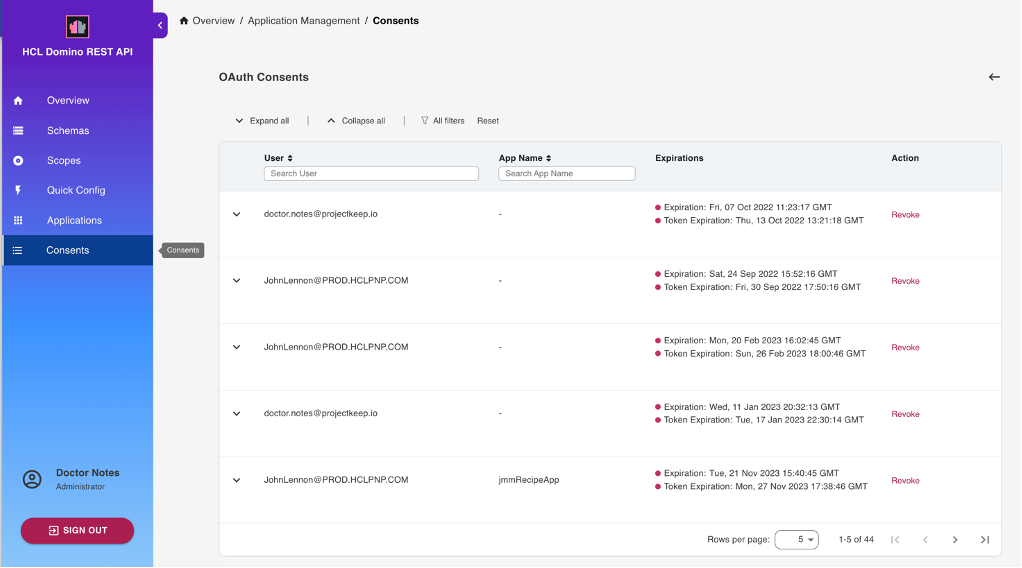
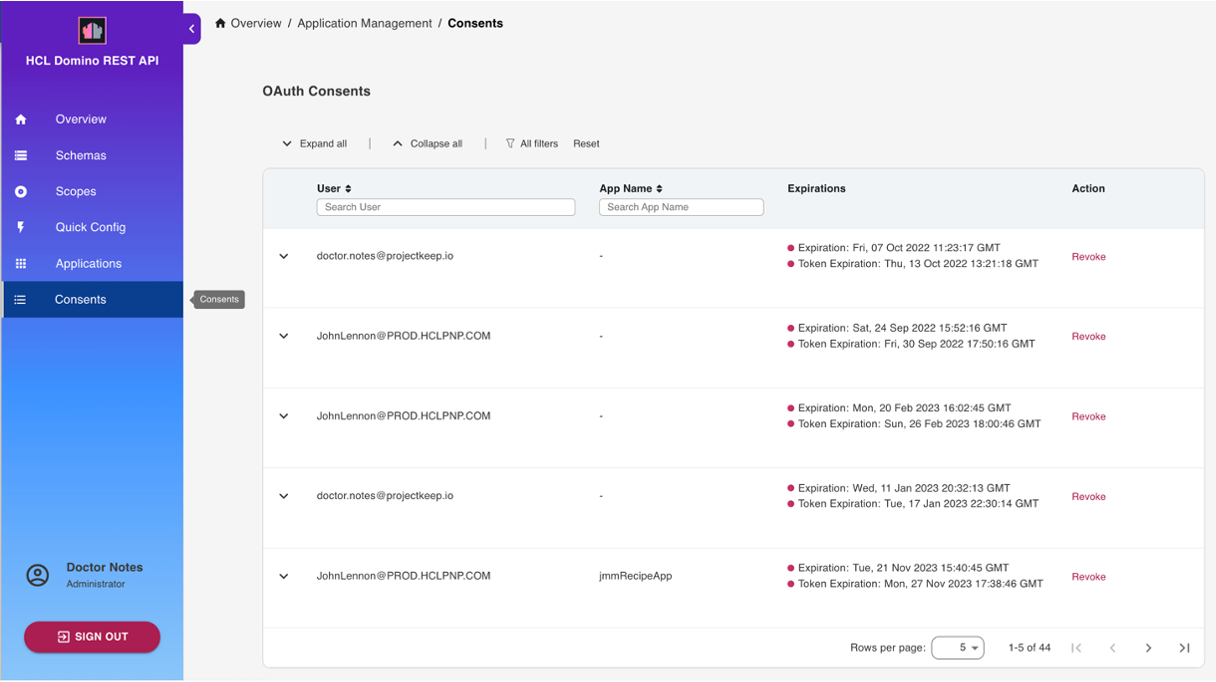
Admin UI updates for 1.0.14 release

diff --git a/docs/references/usingwebui/appui.md b/docs/references/usingwebui/appui.md
@@ -20,6 +20,24 @@ The **Application Management** page shows the available applications in a table 
     - Set the number of applications displayed on the page by selecting a value from **Rows per page**.
     - Use the pagination arrows to move back and forth through pages.
 
+## Add an application
+
+1. On the **Application Management** page, click **Add Application**.
+2. Under **Add New Application**, fill in the form and click **Add**.
+
+      ![Application Form](../../assets/images/AddApplicationForm.png){: style="height:80%;width:80%"}
+
+      When adding a scope, select the scope from the **Scope** drop-down list and click the **Add Scope** icon.
+      
+      **When your app accesses endpoints that run write operations in the `/setup-v1/` URL path, make sure to add the `$SETUP` scope aside from the `$DATA` scope** to enhance access control in relation to the app inheriting a user's access rights when the user grants app access. 
+
+The new application is now shown in the **Application Management** page.
+
+## Generate app secret
+
+- For applications without a configured app secret, click the **Click to Generate Secret** text.
+- For applications with a configured app secret, click the **Click to Generate Secret** icon.
+
 -->
 
 
@@ -33,6 +51,8 @@ The **Application Management** page shows the available applications in a table 
 
       ![Application Form](../../assets/images/AddApplicationForm.png){: style="height:80%;width:80%"}
       
+      When adding a scope, select the scope from the Scope drop-down list and click the Add Scope icon. 
+
       **When your app accesses endpoints that run write operations in the `/setup-v1/` URL path, make sure to add the `$SETUP` scope aside from the `$DATA` scope** to enhance access control in relation to the app inheriting a user's access rights when the user grants app access. 
 
 

diff --git a/docs/references/usingwebui/oauthconsentui.md b/docs/references/usingwebui/oauthconsentui.md
@@ -14,9 +14,9 @@ The **OAuth Consents** page shows available OAuth consents.
 !!!tip
     - Use the **Search User** or **Search App Name** search fields to search a specific OAuth consent.
     - Use the **User** and **App Name** sorting arrow icons to sort the OAuth consents by user or app name in an alphabetical or reverse alphabetical order. 
-    - Click the **Go to Applications** icon on the upper right side of the **OAuth Consents** page to return to the **Application Management** page.
     - Set the number of OAuth consents displayed on the page by selecting a value from **Rows per page**.
-    - Use the pagination arrows to move back and forth through pages. 
+    - Use the pagination arrows to move back and forth through pages.
+    <!-- Click the **Go to Applications** icon on the upper right side of the **OAuth Consents** page to return to the **Application Management** page.--> 
 
 ## View OAuth consent details
 
